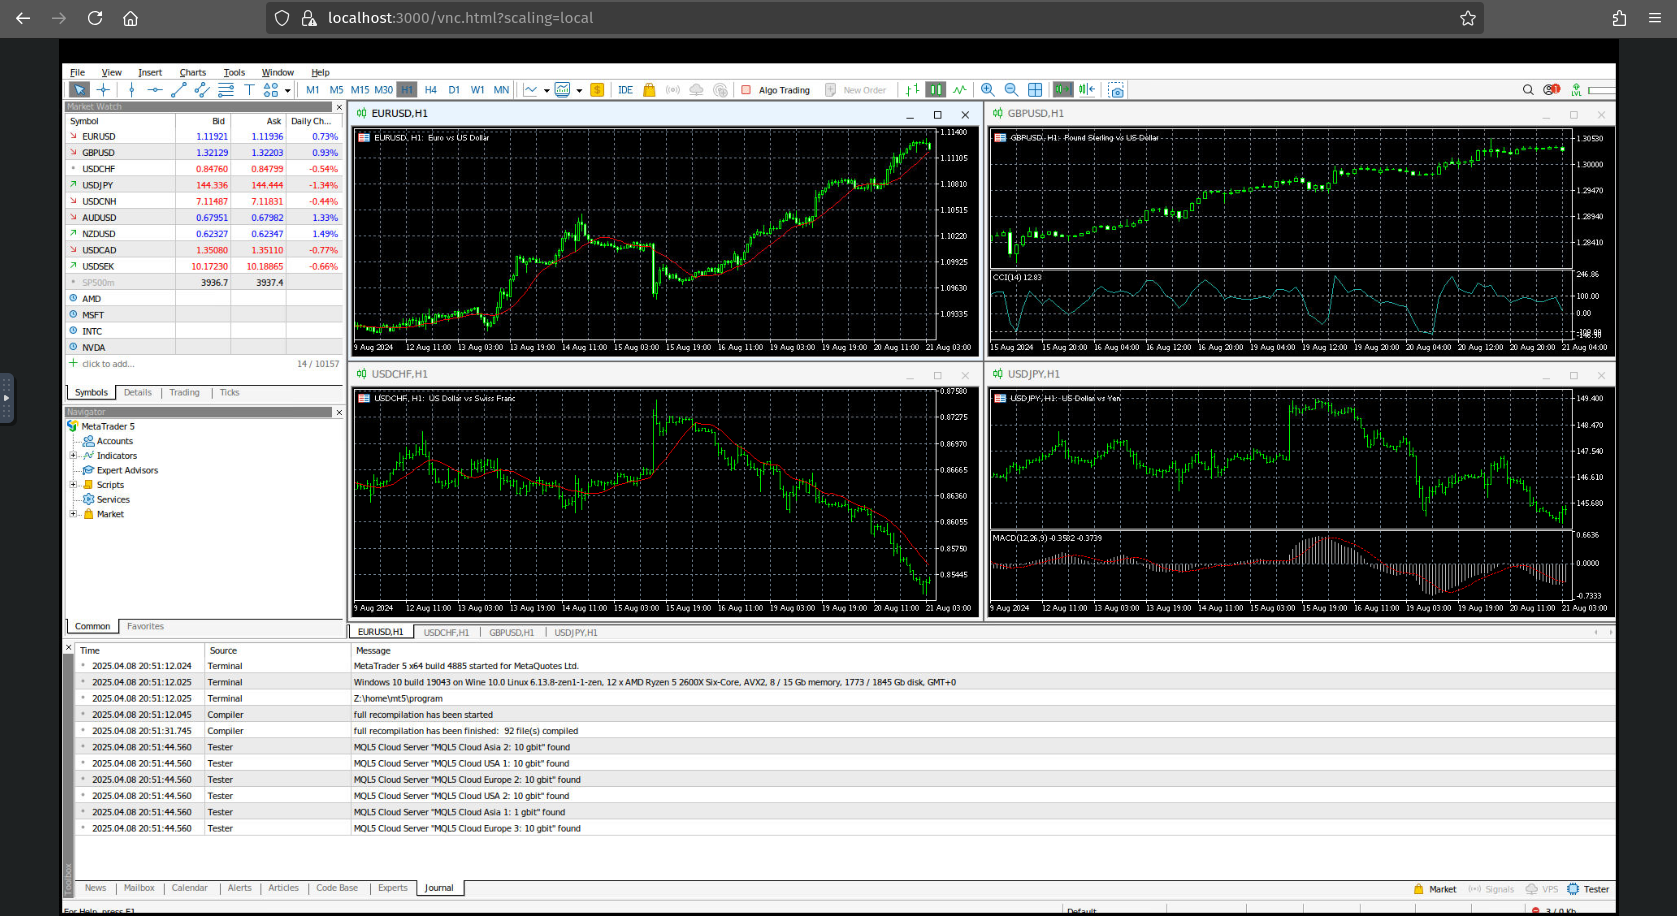
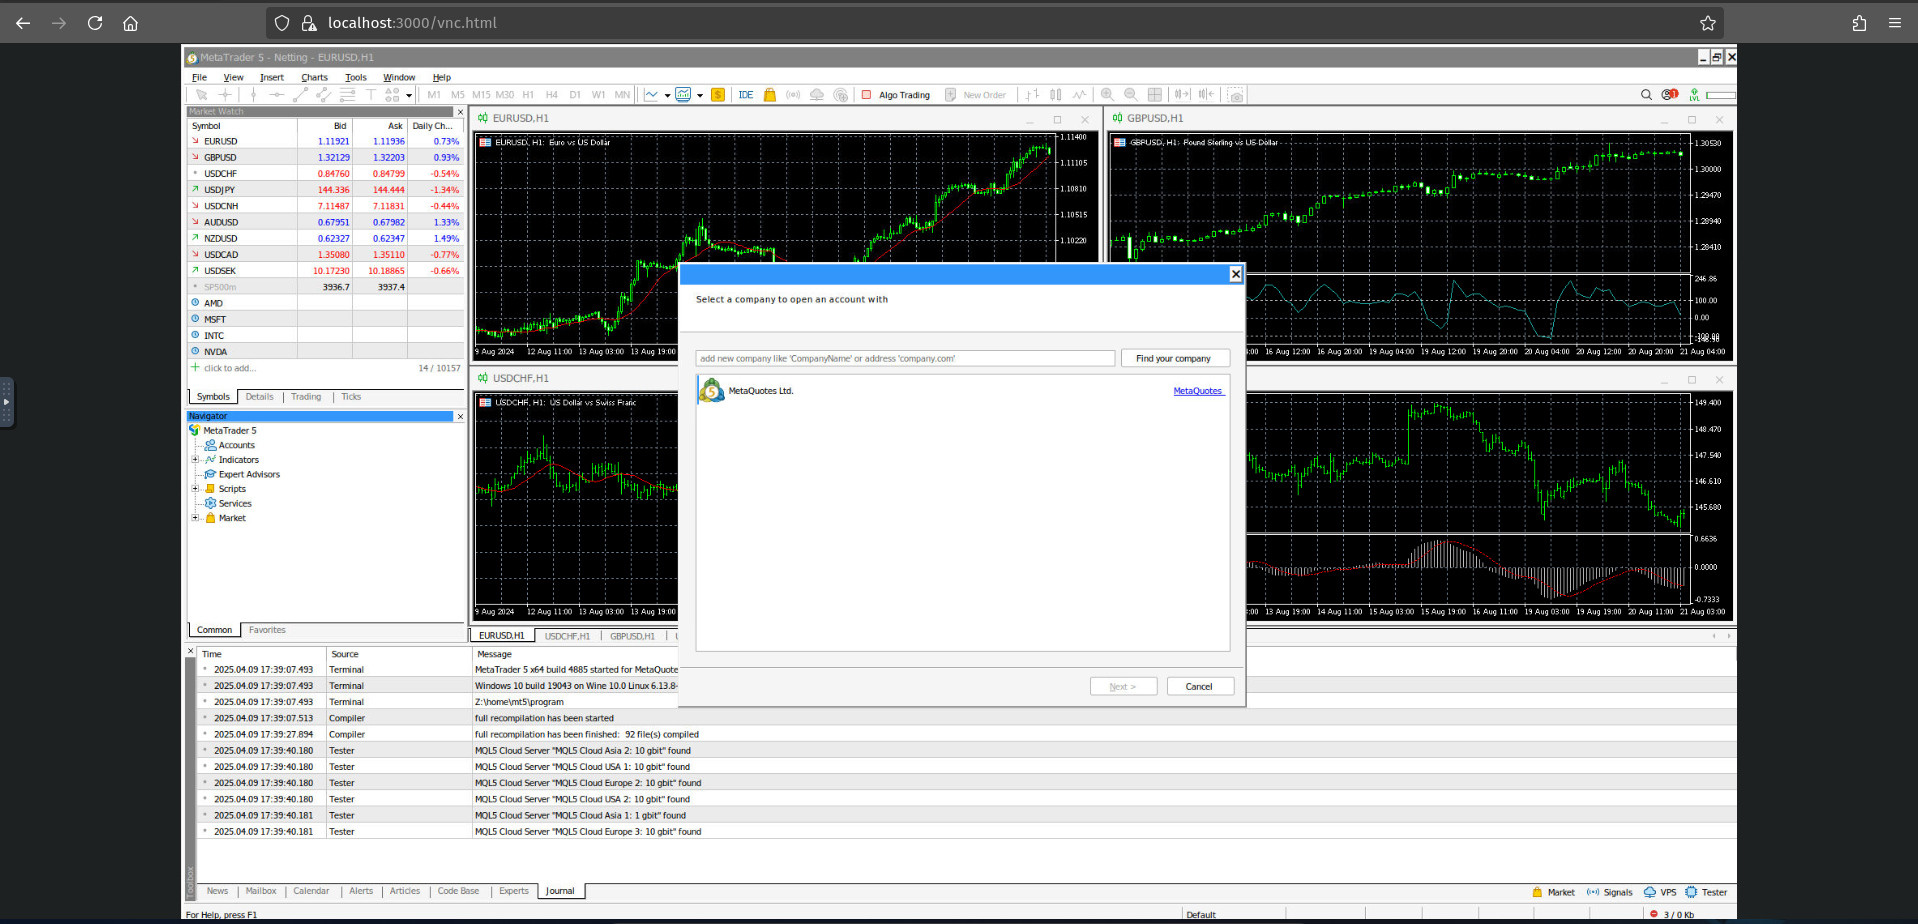
wine lower resolution more flexibility

diff --git a/README.md b/README.md
@@ -1,6 +1,6 @@
 # Metatrader 5 vnc docker image [![](https://img.shields.io/docker/pulls/p3ps1man/dockertrader-vnc)](https://hub.docker.com/r/p3ps1man/dockertrader-vnc)
 
-This image lets you run headless Metratrader 5 terminal via websockify vnc. You can access the terminal via web browser for login, configurations etc. Switch to local scaling for a better preview. If you need to restart the terminal just close it it will restart automaticly.
+This image lets you run headless Metratrader 5 terminal via websockify vnc. You can access the terminal via web browser for login, configurations etc. Switch to local scaling for a better preview. If you need to restart the terminal just close it it will restart automaticly. You can pass your ENV values for resolution etc.
 
 ![](/screenshots/program.png)
 
@@ -54,7 +54,7 @@ You will get browser ssl security warning because its a self signed ssl certific
 
 ## Mounts and notices
 
-There two key mounts:
+There are two key mounts:
 
 1. ```/home/mt5/ssl``` this directory is used for key.pem and cert.pem so you can forward it from your host to skip browser warning
 2. ```/home/mt5/program/MQL5/Experts``` this is expert directory you can bundle all your experts or just one
